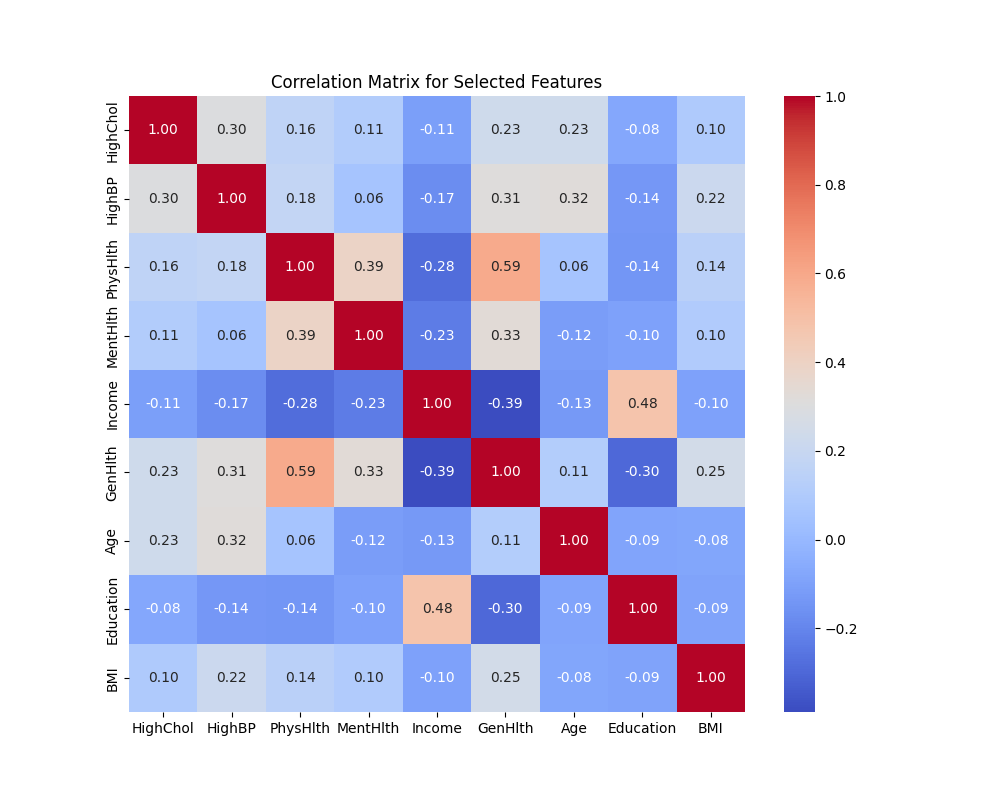
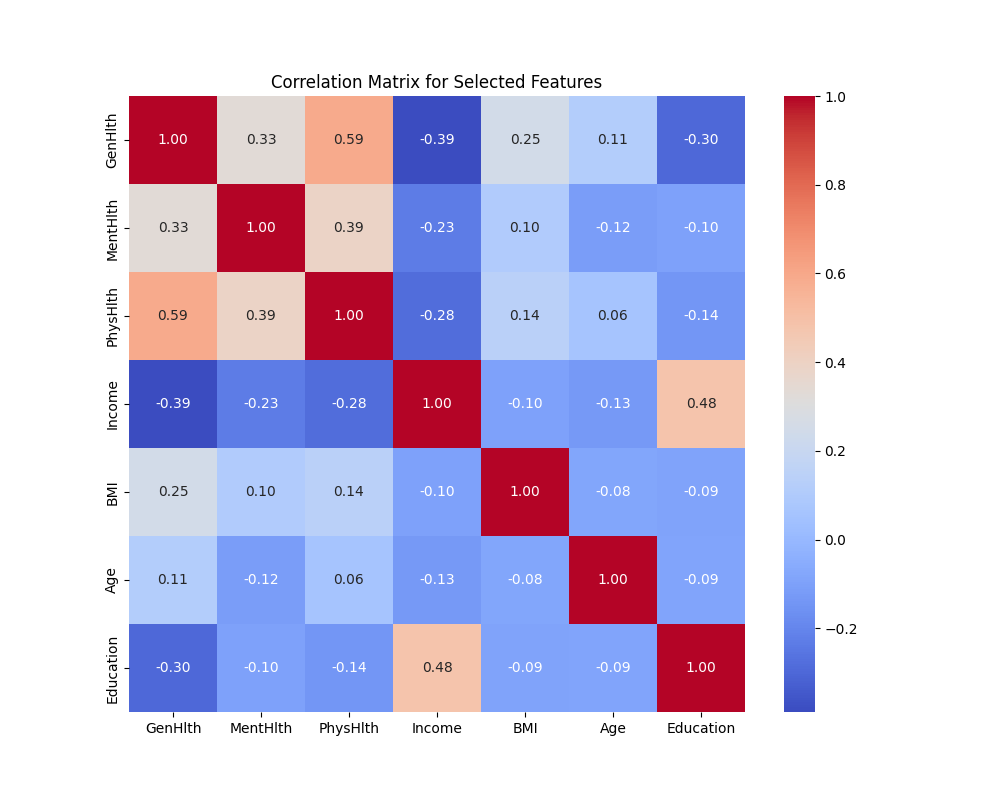
removed rfe feature selection as it was not working well with mui and rf

diff --git a/feature_selection.py b/feature_selection.py
@@ -1,42 +1,38 @@
 import pandas as pd
 import seaborn as sns
 import matplotlib.pyplot as plt
-from sklearn.feature_selection import mutual_info_classif, RFE
+from sklearn.feature_selection import mutual_info_classif
 from sklearn.ensemble import RandomForestClassifier
-from sklearn.linear_model import LogisticRegression
 
-def select_features(data, threshold=0.7, top_percentage=0.3):
+def select_features(data, final_features_count=6):
     X = data.drop("Diabetes_012", axis=1)
     y = data["Diabetes_012"]
 
     # 1. Filter Method: Mutual Information
     mi = mutual_info_classif(X, y, random_state=42)
     mi_scores = pd.Series(mi, index=X.columns).sort_values(ascending=False)
+    print(f"Top features by Mutual Information:")
+    print(mi_scores)
     
-    # Dynamically choose top features
-    top_n_features = max(4, int(len(X.columns) * top_percentage))
-    print(f"Top {top_n_features} features by Mutual Information:")
-    print(mi_scores.head(top_n_features))
-    
-    # 2. Wrapper Method: Recursive Feature Elimination
-    model = LogisticRegression(max_iter=2000, random_state=42)
-    rfe = RFE(model, n_features_to_select=top_n_features)
-    rfe.fit(X, y)
-    rfe_features = X.columns[rfe.support_]
-    print("Selected Features by RFE:")
-    print(rfe_features)
-    
-    # 3. Embedded Method: Feature Importance from Random Forest
+    # 2. Embedded Method: Feature Importance from Random Forest
     rf = RandomForestClassifier(random_state=42)
     rf.fit(X, y)
-    feature_importance = pd.Series(rf.feature_importances_, index=X.columns).sort_values(ascending=False)
-    print(f"Top {top_n_features} features by Random Forest:")
-    print(feature_importance.head(top_n_features))
+    rf_scores = pd.Series(rf.feature_importances_, index=X.columns).sort_values(ascending=False)
+    print(f"Feature Importances by Random Forest:")
+    print(rf_scores)
     
-    # Combine results
-    selected_features = list(set(mi_scores.head(top_n_features).index) | set(rfe_features) | set(feature_importance.head(top_n_features).index))
+    # Combine results by selecting top features from both methods
+    # For simplicity, take top features from both methods and ensure we have the desired number of final features.
+    mi_top_features = mi_scores.head(final_features_count).index.tolist()
+    rf_top_features = rf_scores.head(final_features_count).index.tolist()
     
-    print("Analyzing correlations...")
+    # Combine the two lists and remove duplicates
+    selected_features = list(set(mi_top_features + rf_top_features))[:final_features_count]
+    
+    print(f"Final Selected Features (Top {final_features_count}):")
+    print(selected_features)
+    
+    # Analyze correlations among the selected features
     X_selected = X[selected_features]
     correlation_matrix = X_selected.corr()
 
@@ -46,32 +42,7 @@ def select_features(data, threshold=0.7, top_percentage=0.3):
     plt.title('Correlation Matrix for Selected Features')
     plt.savefig("Correlation_Matrix_Selected_Features.png")
 
-    # Identify highly correlated pairs
-    corr_pairs = correlation_matrix.unstack()
-    high_corr = corr_pairs[(abs(corr_pairs) > threshold) & (corr_pairs < 1)]
-    print("Highly Correlated Feature Pairs:")
-    print(high_corr)
-
-    # Remove less important features from highly correlated pairs
-    features_to_drop = set()
-    for feature_1, feature_2 in high_corr.index:
-        if feature_1 not in features_to_drop and feature_2 not in features_to_drop:
-            if feature_importance[feature_1] < feature_importance[feature_2]:
-                features_to_drop.add(feature_1)
-            else:
-                features_to_drop.add(feature_2)
-
-    new_selected_features = []
-    for feature in selected_features:
-        if feature not in features_to_drop:
-            new_selected_features.append(feature)
-
-    selected_features = new_selected_features
-
-    print("Final Selected Features after Correlation Check:")
-    print(selected_features)
-
+    # Save final selected features
     pd.DataFrame(selected_features, columns=["Selected Features"]).to_csv("Selected_Features.csv", index=False)
 
     return data[selected_features + ["Diabetes_012"]]
-    

diff --git a/classification.py b/classification.py
@@ -41,12 +41,13 @@ def run_classifiers(data, target_column="Diabetes_012"):
     best_rf = randomized_search.best_estimator_
     print("Best Hyperparameters for Random Forest:", randomized_search.best_params_)
 
-    # Models to evaluate
+    # Models
     models = {
-        "Random Forest (Tuned)": best_rf,
-        "KNN": KNeighborsClassifier(n_neighbors=1),
-        "SVM": SVC(kernel='rbf', probability=True, random_state=42)
+        "Random Forest (Tuned)": best_rf,  # Tuned RF
+        "KNN": KNeighborsClassifier(),     
+        "SVM": SVC(kernel='rbf', probability=True, random_state=42)       
     }
+
     
     # Cross-validation setup (5-fold)
     cv = StratifiedKFold(n_splits=5, shuffle=True, random_state=42)
